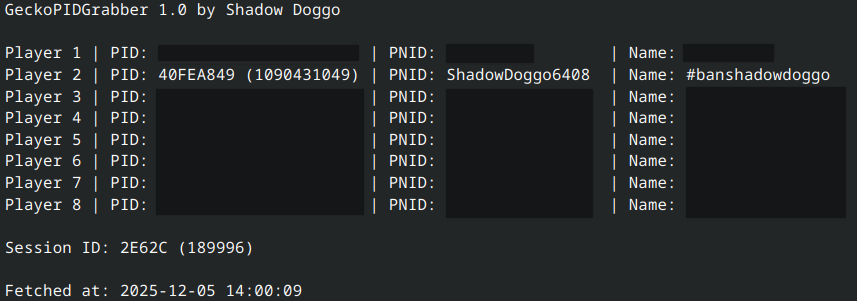
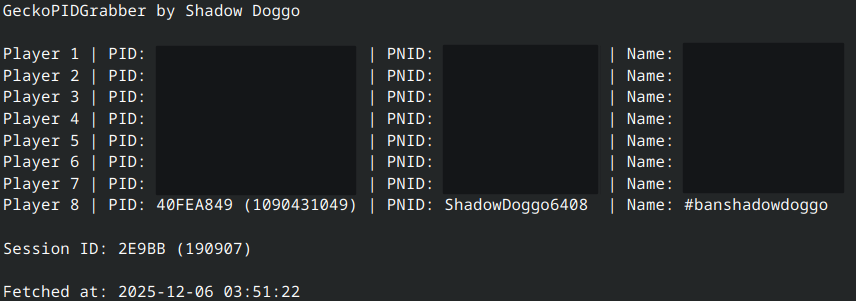
Small updayt 3: the return
Version number is no longer necessary.

diff --git a/gecko_pid_grabber.py b/gecko_pid_grabber.py
@@ -8,7 +8,7 @@ from urllib.request import Request, urlopen
 
 gecko = TCPGecko(sys.argv[1])  # Your Wii U's LAN IP address goes here.
 
-print("\nGeckoPIDGrabber 1.0 by Shadow Doggo\n")
+print("\nGeckoPIDGrabber by Shadow Doggo\n")
 
 player_ptr = int.from_bytes(
     gecko.readmem(int.from_bytes(gecko.readmem(0x106E0330, 4), "big") + 0x10, 4), "big"
